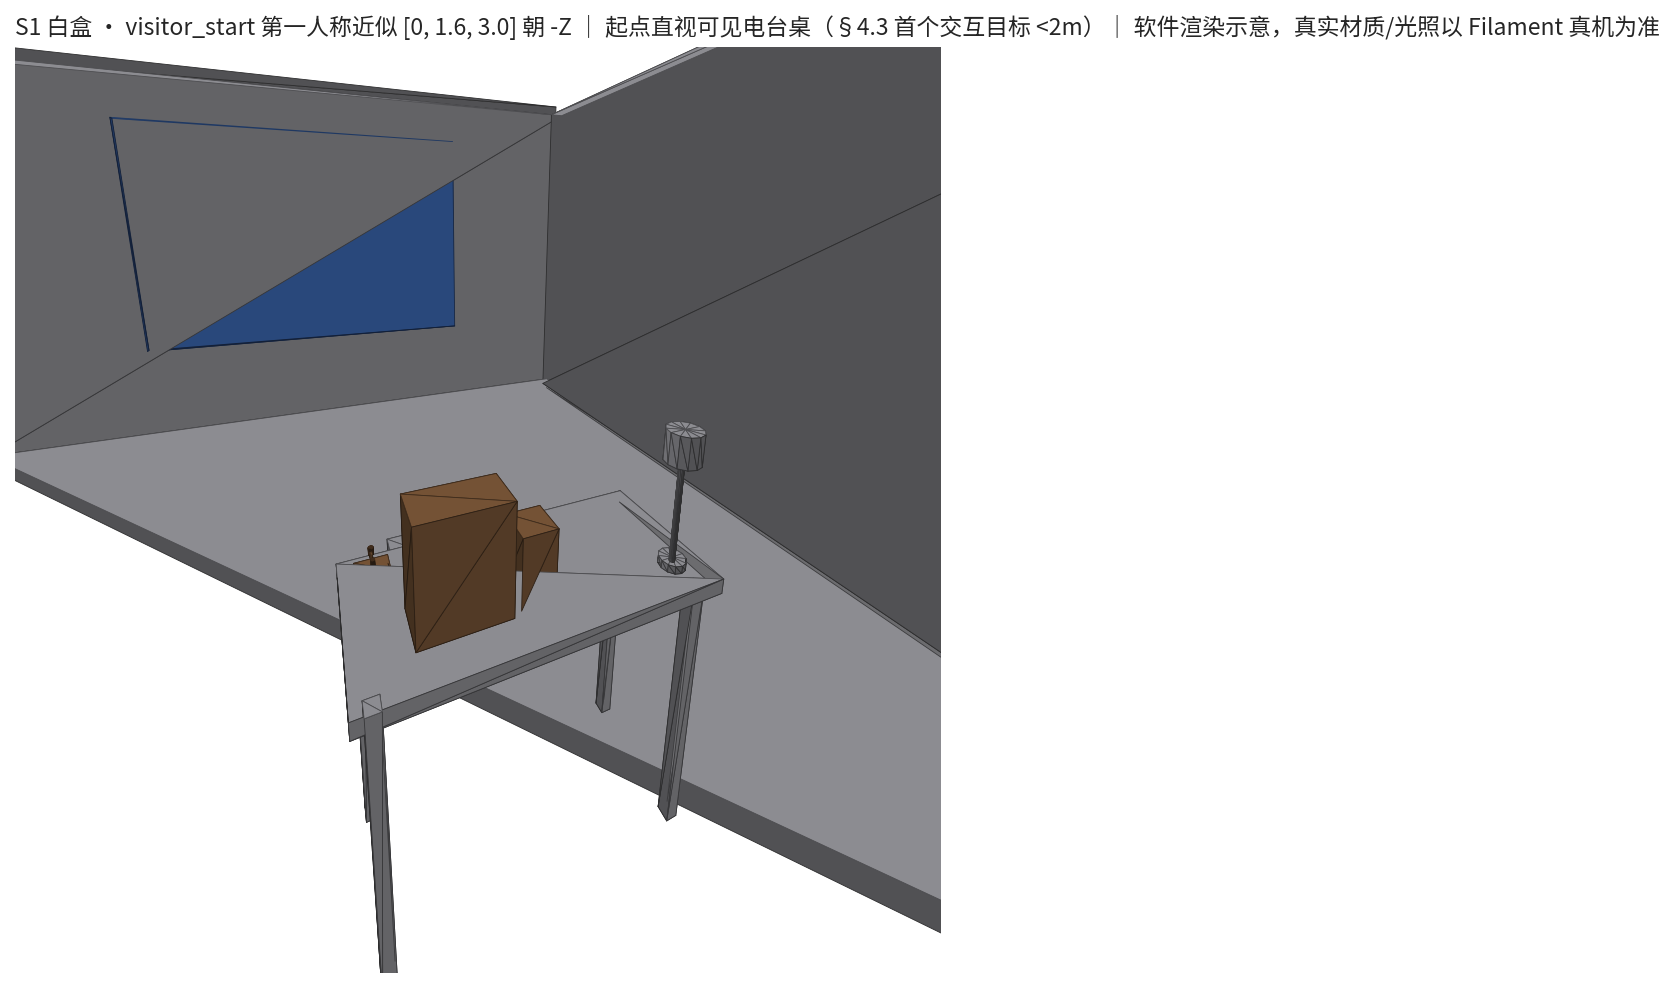
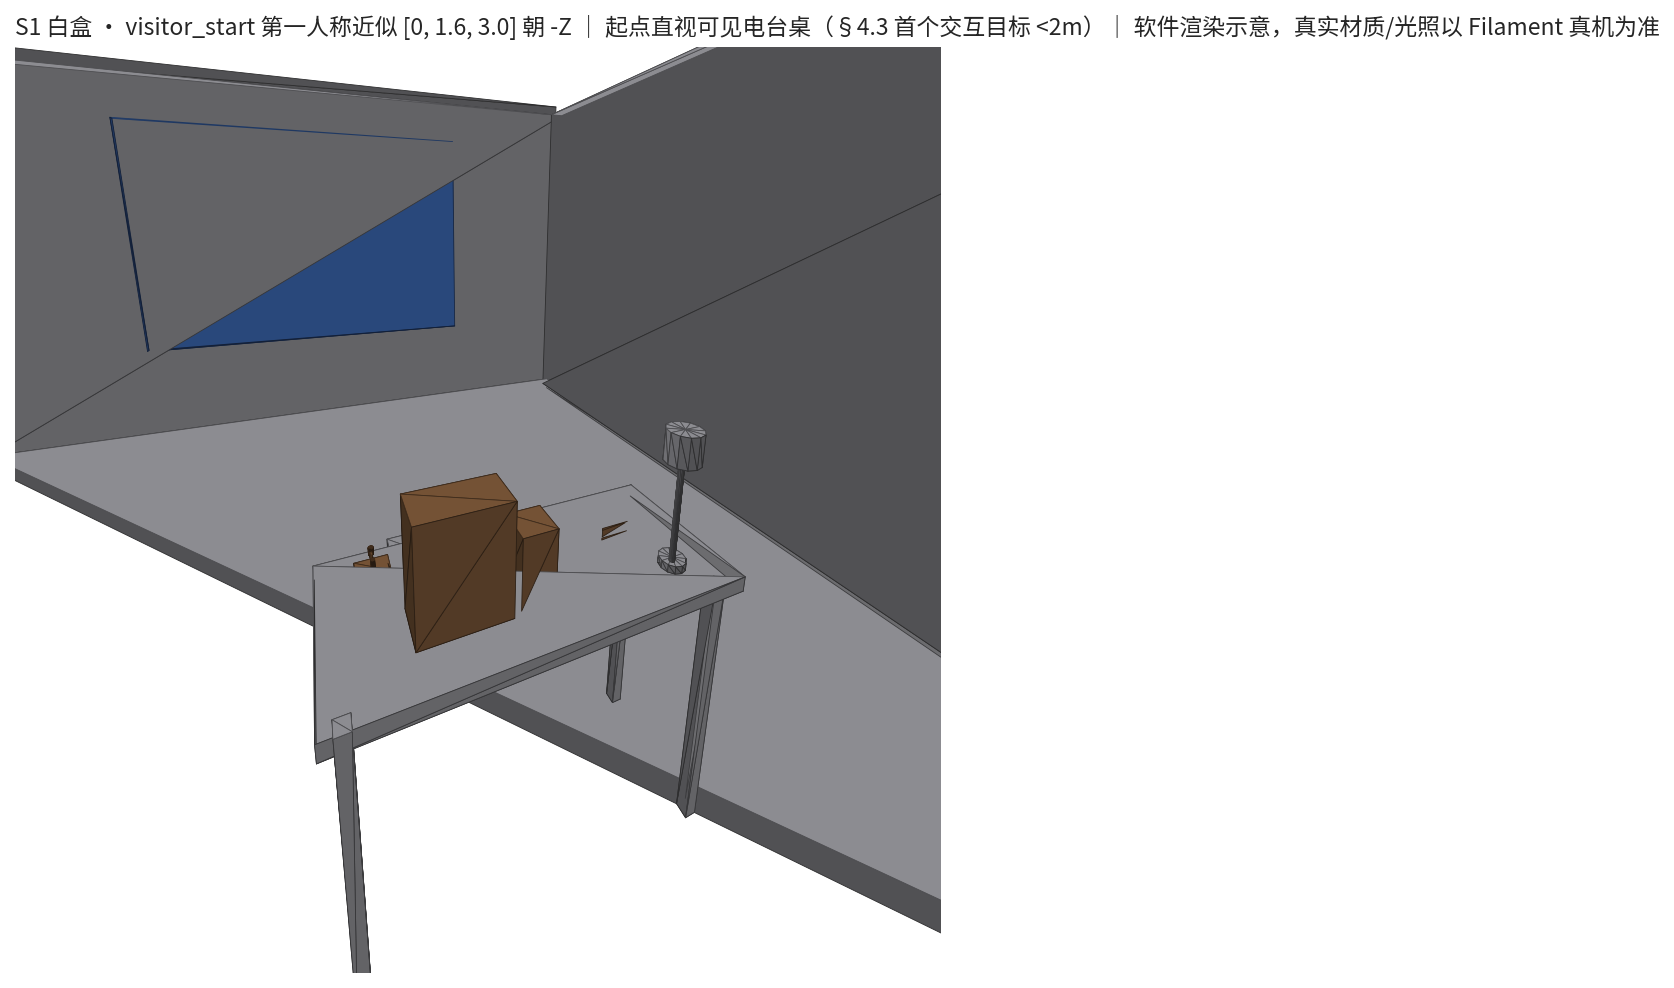
M3D-01: whitebox v0.2 — align desk with frozen style board (1.80x0.75x0.78)
- desk placeholder resized to style_reference_board ZONE-B baseline, center unchanged
- desk collider AABB updated; legs adjusted; all other layout values unchanged
- re-validated: Khronos glTF-Validator 0/0 on all 4 GLBs, scene.json cross-check PASS
- previews re-rendered: 3 props silhouettes mutually unobstructed from visitor start

Changed region(s): [[0.1864, 0.5466, 0.4659, 1.0], [0.3417, 0.4858, 0.4038, 0.5466], [0.1864, 0.5466, 0.2485, 0.5769]]

diff --git a/modeling_delivery/S1/source/whitebox/layout_s1.py b/modeling_delivery/S1/source/whitebox/layout_s1.py
@@ -40,7 +40,9 @@ INFO_PANEL = {"x0": -2.2, "x1": 2.2, "y0": 0.7, "y1": 2.3, "z0": -3.99, "z1": -3
 
 # ---------------------------------------------------------------- furniture
 # Operation desk: hand-reachable height band 0.72-0.82 m (modeling_brief §4.3).
-DESK = {"x0": 0.0, "x1": 1.6, "z0": 1.15, "z1": 1.85, "top_y0": 0.74, "top_y1": 0.78}
+# Footprint 1.80 x 0.75 m per style_reference_board.md §6 ZONE-B frozen baseline
+# ("保持桌宽 1.8 m、深 0.75 m、高 0.78 m 的已定占位基准"), same center as v0.1.
+DESK = {"x0": -0.1, "x1": 1.7, "z0": 1.125, "z1": 1.875, "top_y0": 0.74, "top_y1": 0.78}
 DESK_SURFACE_Y = 0.78
 
 STOOL = {"cx": 0.55, "cz": 0.55, "w": 0.42, "seat_y0": 0.42, "seat_y1": 0.47}
@@ -115,7 +117,7 @@ COLLIDERS = [
     {"id": "wall_south", "min_m": [-4.2, 0.0, 4.0], "max_m": [4.2, 2.6, 4.2]},   # door leaf is closed geometry; exit is handled by UI
     {"id": "wall_east", "min_m": [4.0, 0.0, -4.0], "max_m": [4.2, 2.6, 4.0]},
     {"id": "wall_west", "min_m": [-4.2, 0.0, -4.0], "max_m": [-4.0, 2.6, 4.0]},
-    {"id": "desk_radio", "min_m": [0.0, 0.0, 1.15], "max_m": [1.6, 0.78, 1.85]},
+    {"id": "desk_radio", "min_m": [-0.1, 0.0, 1.125], "max_m": [1.7, 0.78, 1.875]},
     {"id": "stool", "min_m": [0.34, 0.0, 0.34], "max_m": [0.76, 0.47, 0.76]},
     {"id": "crates", "min_m": [-3.7, 0.0, -1.9], "max_m": [-3.0, 0.8, -0.7]},
 ]
@@ -152,10 +154,10 @@ def build_env_parts(make_box, make_cyl):
                              (INFO_PANEL["x1"], INFO_PANEL["y1"], INFO_PANEL["z1"]))),
         # operation desk
         ("desk_top", g, B((DESK["x0"], DESK["top_y0"], DESK["z0"]), (DESK["x1"], DESK["top_y1"], DESK["z1"]))),
-        ("desk_leg_a", g, B((0.05, 0.0, 1.20), (0.11, 0.74, 1.26))),
-        ("desk_leg_b", g, B((1.49, 0.0, 1.20), (1.55, 0.74, 1.26))),
-        ("desk_leg_c", g, B((0.05, 0.0, 1.74), (0.11, 0.74, 1.80))),
-        ("desk_leg_d", g, B((1.49, 0.0, 1.74), (1.55, 0.74, 1.80))),
+        ("desk_leg_a", g, B((-0.05, 0.0, 1.175), (0.01, 0.74, 1.235))),
+        ("desk_leg_b", g, B((1.59, 0.0, 1.175), (1.65, 0.74, 1.235))),
+        ("desk_leg_c", g, B((-0.05, 0.0, 1.765), (0.01, 0.74, 1.825))),
+        ("desk_leg_d", g, B((1.59, 0.0, 1.765), (1.65, 0.74, 1.825))),
         # stool (wooden stool per brief; not a chair)
         ("stool_seat", g, B((STOOL["cx"] - 0.21, 0.42, STOOL["cz"] - 0.21), (STOOL["cx"] + 0.21, 0.47, STOOL["cz"] + 0.21))),
         ("stool_leg_a", g, B((0.36, 0.0, 0.36), (0.41, 0.42, 0.41))),

diff --git a/modeling_delivery/S1/CHANGELOG.md b/modeling_delivery/S1/CHANGELOG.md
@@ -47,3 +47,21 @@
 3. 所有坐标为临时值，未通过真机联调前不得冻结；正式 `environment.glb` 须保持同一坐标与碰撞基准（资料包 §7）。
 
 **状态**：⏸ 按资料包 §8 在此停止，等待：① 编码模型真机联调反馈；② 项目负责人对资料包 Q-001/002/003 的审核结论。未通过真机联调，白盒不标记为完成。
+
+## 2026-07-20 ｜ M3D-01 ｜ 白盒 v0.2：对齐冻结风格板
+
+**触发**：资料侧提交 `style_reference_board.md`（`VISUAL_DIRECTION_FROZEN_FOR_NEXT_ASSET_PASS`）与 modeling_brief §6.1 硬约束（commit 305a52d）。
+
+**变更**（仅一处几何，其余不变）：
+- 电台桌占位由 1.60×0.70×0.78 m 调整为风格板 §6 ZONE-B 冻结基准 **1.80×0.75×0.78 m**，桌面中心不变；`desk_radio` collider 同步更新为 `[-0.1,0,1.125]–[1.7,0.78,1.875]`；桌腿位置随动。
+- 文物摆位、起点、bounds、move points、门/信息面/木箱/灯具均不变（风格板 §9-1：不因风格板重做已验证布局）。
+
+**对齐核对**（风格板白盒相关条款）：
+- 三层结构在构图上可读：入口框（地域层）+ 电台桌操作组（行动层）+ 信息面（现代解释层）✓
+- 起点中央 40% 可见电台操作组；radio/key/codebook 轮廓互不遮挡 ✓（见重渲 visitor_start.png）
+- 主通道净宽 ≥1.2 m（桌旁最窄处 2.3 m）✓ 无台阶/高差 ✓ 无贴脸悬挂物（吊灯底 2.05 m 高于视线）✓
+- 拾取射线无遮挡 ✓ 信息中心高度 1.5 m 在 1.2–1.8 m 带内 ✓
+
+**校验**：Khronos glTF-Validator 0 错 0 警（4/4）；check_glb PASS；scene.json 交叉检查 PASS（含文物落桌足迹检查）；visitor→radio 仍 1.50 m。
+
+**下一步（不变）**：真机联调 → 白盒验收 → 按风格板 §10 出 STYLE-01/02/03 三张审核图 → 用户审核后才进入中模。